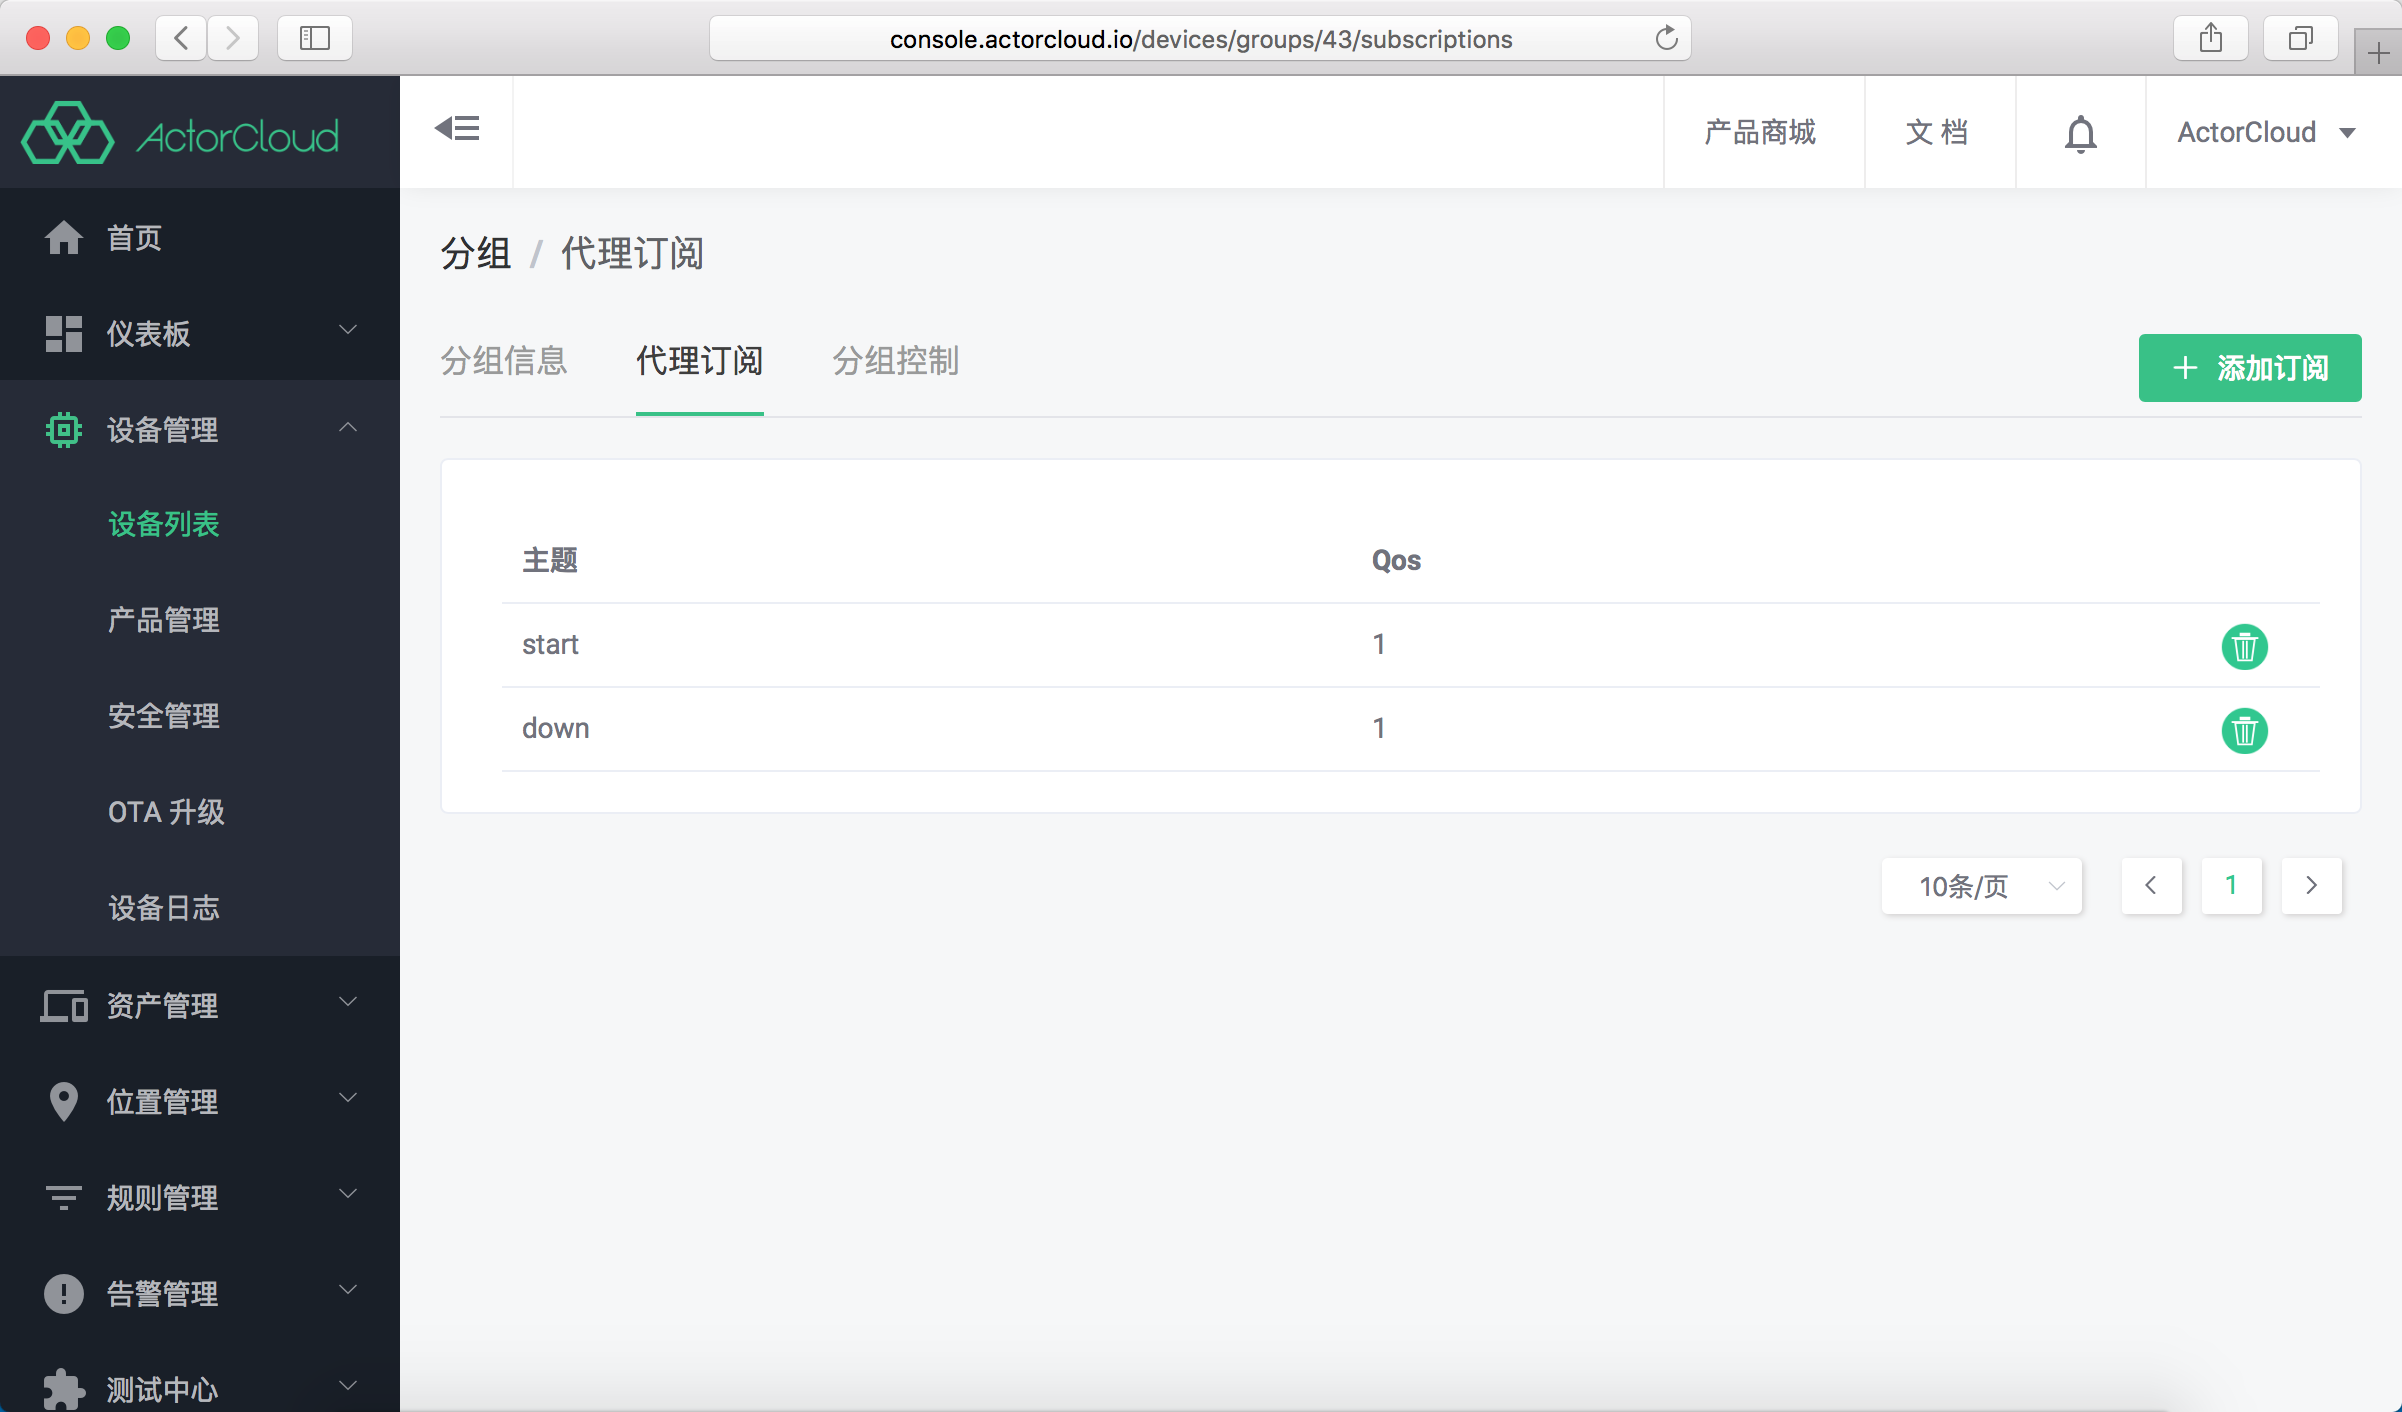
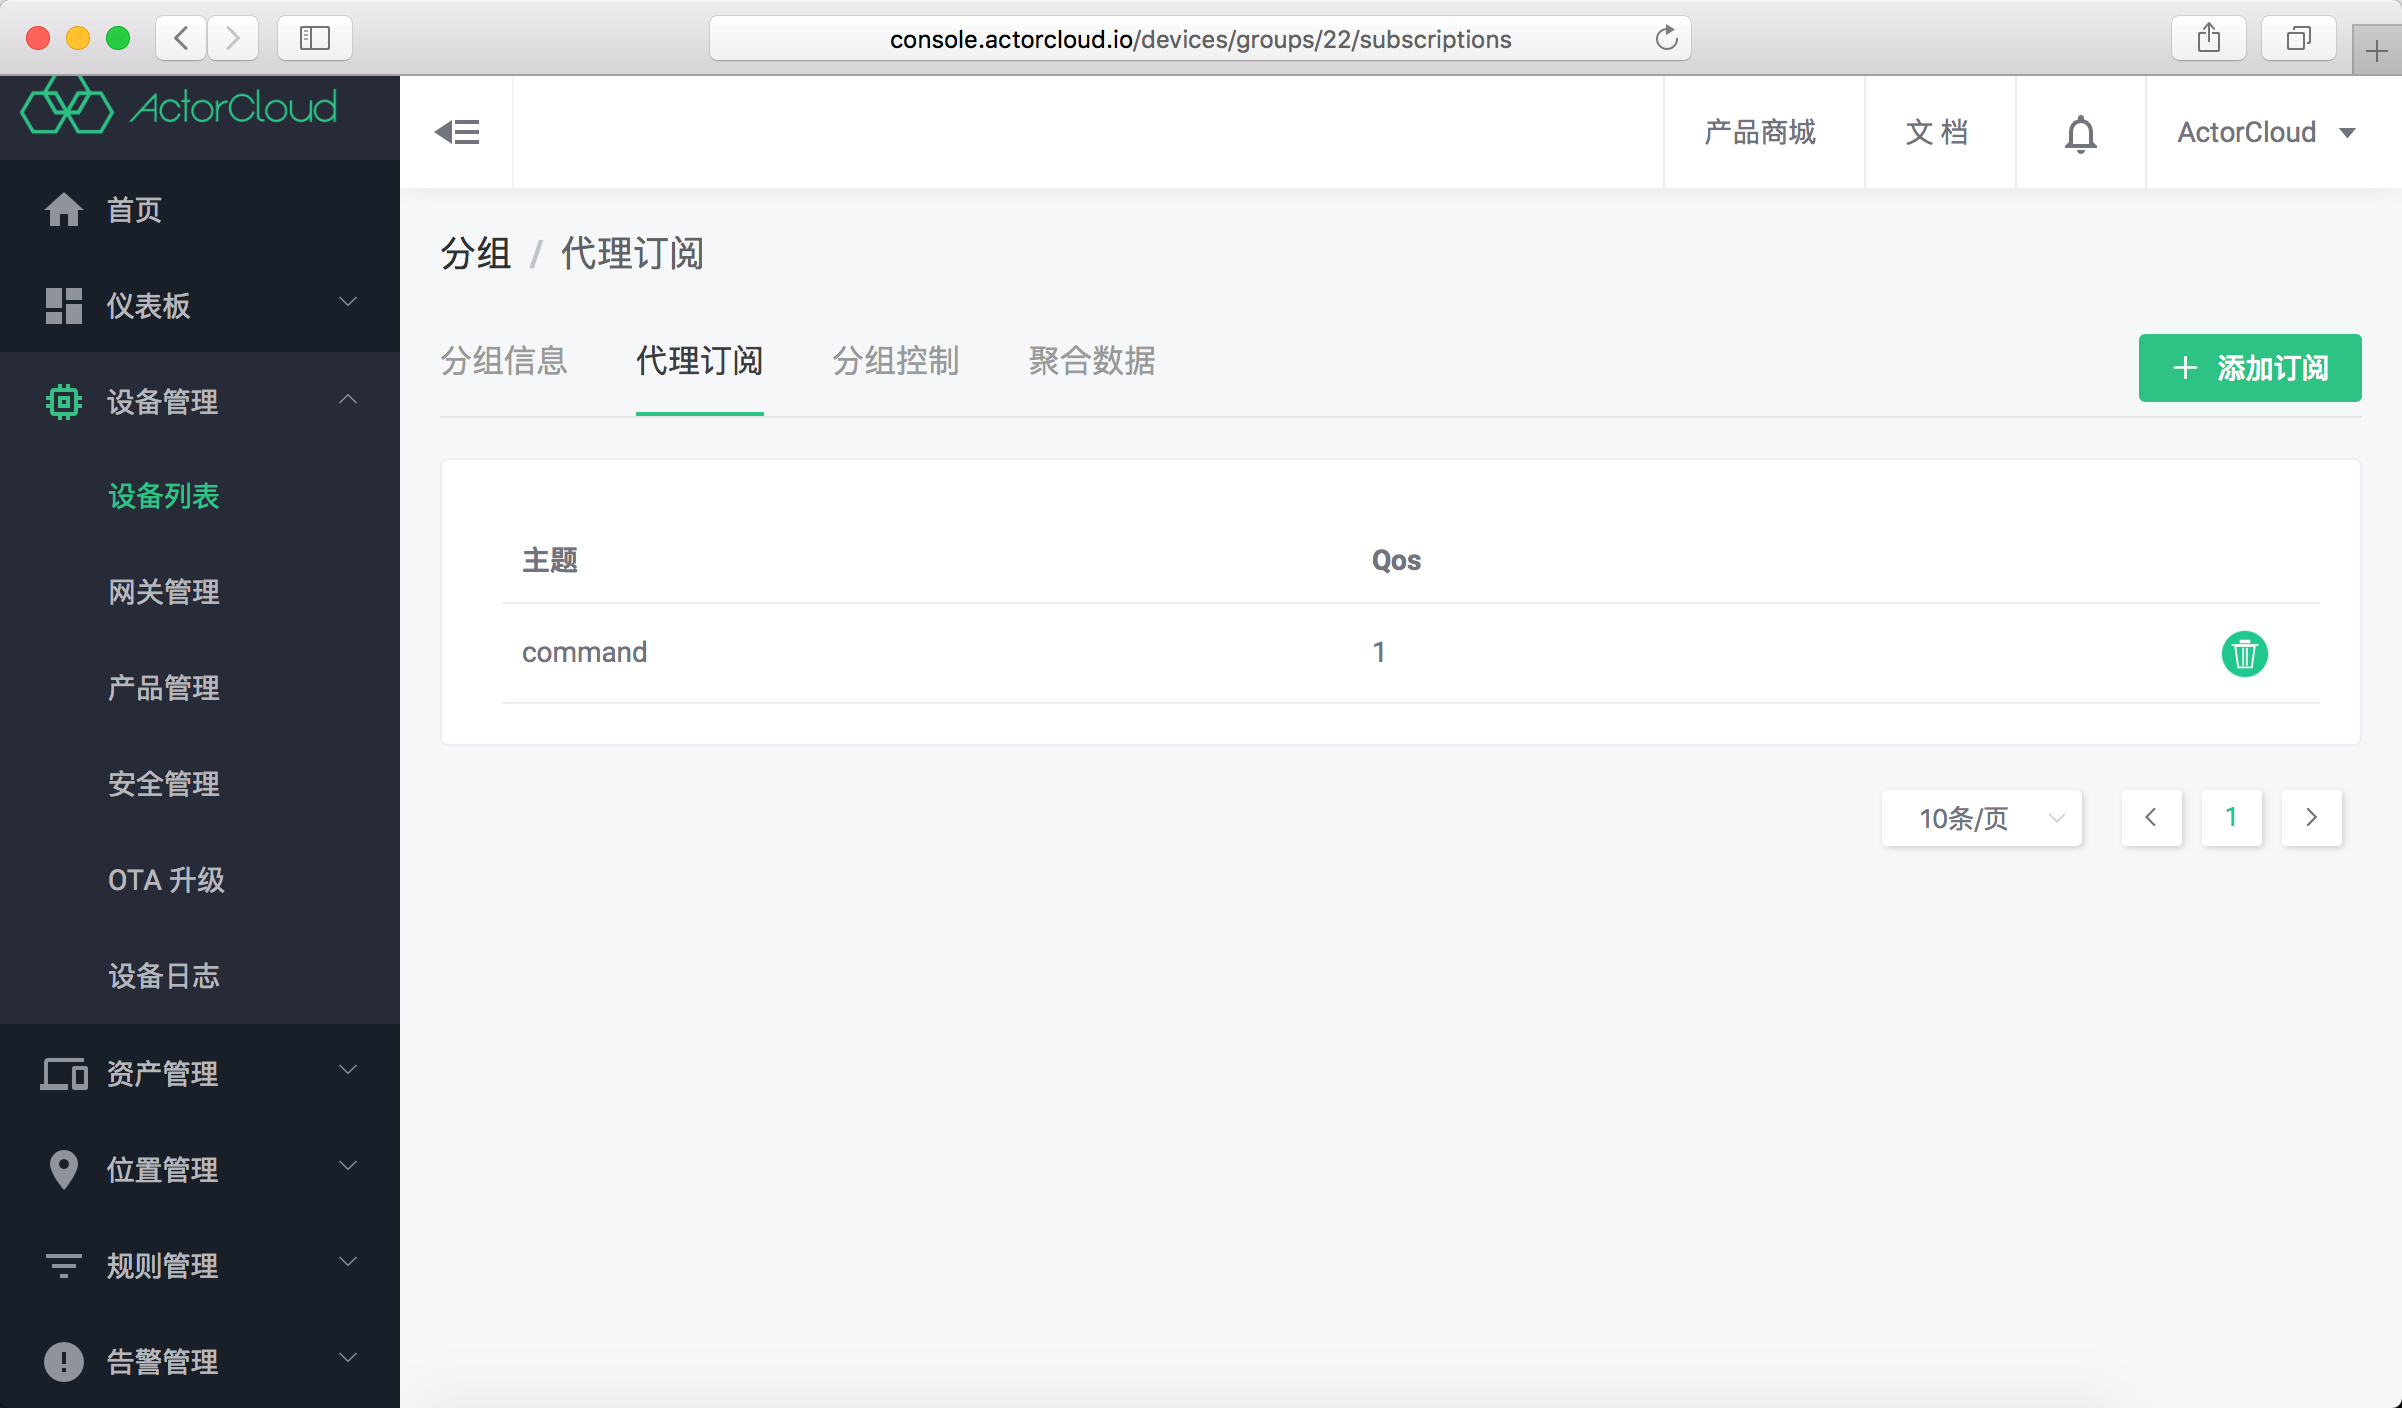
feat(docs): 调整文档适配 modbus 指标公式 业务规则

diff --git a/device/device.md b/device/device.md
@@ -1,6 +1,7 @@
 # 设备列表
 
-点击**设备**列表页设备名称，进入设备信息页。该页包括**设备信息**、**设备安全**、**设备事件**、**设备控制**、**原始数据**、**指标数据**六个页面，其功能与展示信息如下：
+点击**设备**列表页设备名称，进入设备信息页。该页包括
+**设备信息**、 **子设备**、 **设备安全**、 **设备事件**、 **原始数据**、 **指标数据**、 **设备轨迹**、 **设备控制**、 **控制台** 九个页面，其功能与展示信息如下：
 
 ### 设备信息
 
@@ -23,6 +24,10 @@
 
 ![](/assets/device_map_edit.png)
 
+
+### 子设备
+
+设备上联系统可以是另一个设备，此处显示设备下子设备列表。
 
 
 ### 设备安全
@@ -49,13 +54,27 @@
 
 
 
-
 ### 设备事件
 
 - 设备上行消息记录，即设备上报的消息，该页面无需刷新也可实时展示设备最新上报的消息。
 
 ![](/assets/upstream_device.png)
 
+
+### 原始数据
+
+- 最近24小时的功能点数据图表展示，仅限数值类型的功能点。该页面无需刷新也可实时更新设备数据图表。
+
+![](/assets/original_data.png)
+
+### 指标数据
+
+- 按不同的时间维度、聚合方式聚合后的功能点数据，详细设置参考 ***数据可视化*。
+
+
+### 设备轨迹
+
+- 当设备所属产品定义的功能点为位置功能点时，该功能点上报的位置轨迹信息将在地图上展示。
 
 
 ### 设备控制
@@ -84,21 +103,6 @@
 ![](/assets/device_control.png)
 
 
-### 原始数据
-
-- 最近24小时的功能点数据图表展示，仅限数值类型的功能点。该页面无需刷新也可实时更新设备数据图表。
-
-![](/assets/original_data.png)
-
-### 指标数据
-
-- 按不同的时间维度、聚合方式聚合后的功能点数据。
-
-
-### 设备轨迹
-
-- 当设备所属产品定义的功能点为位置功能点时，该功能点上报的位置轨迹信息将在地图上展示。
-
 
 ### 控制台
 
@@ -113,8 +117,6 @@
   - 开关：点击开关可以下发切换设备状态的指令；
   
   - 布尔：点击 `true` `false` 按钮可以将相应指令下发至设备。
-
-![](/product_develop/assets/device_console.png)
 
 
 ### 列表操作
@@ -163,10 +165,17 @@
 ![](/assets/group_subscript.png)
 
 
-### 分组下发
+### 分组控制
 
 - **分组控制**列表内可查看通过设备管理平台向组内设备下发的消息记录；
 
 - 点击**添加指令**可以通过设备管理平台向组内设备下发消息，支持自定义 JSON 格式消息与升级指令。
+
+![](/assets/group_publish.png)
+
+
+### 聚合数据
+
+聚合分组里设备指定功能点数值信息，该功能与设备中的指标数据相同，但层级是整个分组下的设备。
 
 ![](/assets/group_publish.png)

diff --git a/device/product.md b/device/product.md
@@ -10,8 +10,6 @@
 
 ![](/assets/product_list.png)
 
-![](/assets/product_create.png)
-
 
 > 产品详情页中有不同的 TAB 页以定义不同的功能
 
@@ -124,6 +122,8 @@
 
 指标管理具有统计功能，用于聚合统计一个周期内数值类型的功能点、产品属性等信息数据并图表展示。
 
+指标使用统计方法处理数据，对于特定的功能点可以统计其一段时期内的最大值、最小值、平均值、累计值数据，如果数据需要转换，如容器底面积固定时，将 `页面高度` 转换为 `液体容积`, 可以使用公式指标。
+
 指标管理统计的数据将在 **设备详情** -> **指标数据** 中展示。
 
 - 图表类型：需要展现的图表类型；
@@ -135,16 +135,16 @@
 ![](/assets/metrics.png)
 
 
+
+
+### 聚合数据
+
+图表展示不同事假维度下当前产品中指标数据的聚合值。
+
+
 ### 代理订阅
 
 设备连接后将自动订阅的主题列表。
-
-
-### 资源定义
-
-将设备上报某些属性、功能点关联到设备资源。
-
-目前支持序列号、软件版本、硬件版本、制造商四个设备资源定义，即设备上报了指定功能点后，该数值会被同步更新到设备属性。
 
 
 ### 应用模板
@@ -171,4 +171,13 @@
 
   
   > 每个卡片可以拖拽改变位置、点击右下角拖放改变尺寸。设备详情->控制台 页面将会按照该页面设置的模板与顺序展现。
-  
+
+
+
+### 资源定义
+
+将设备上报某些属性、功能点关联到设备资源。
+
+目前支持序列号、软件版本、硬件版本、制造商四个设备资源定义，即设备上报了指定功能点后，该数值会被同步更新到设备属性。
+
+

diff --git a/device/gateway.md b/device/gateway.md
@@ -7,3 +7,32 @@
 为方便管理统计，如设备上联系统为网关，需在设备新建时创建并选择相应网关。
 
 ![](/assets/gataway.png)
+
+
+### 网关信息
+
+显示基本的网关信息，MQTT 透传协议的网关可通过网关编号，网关用户名，网关密钥连接至 **ActorCloud**。
+
+
+#### 网关通道 (适配 Modbus 网关)
+
+- 1.Modbus 网关详情页点开 网关通道 后面的 点击查看 按钮，进入网关通道配置；
+
+- 2.点开 添加通道，先选择通道类型。通道类型可选择 COM、TCP，驱动类型可选择 Modbus TRU (COM类型)、Modbus TCP (TCP类型)；
+
+- 3.创建一个 COM 类型的通道。其中 Baud 表示串口波特率，Data 表示数据位，Stop 表示停止位，Parity 表示奇偶校验位。注意：一个网关只能创建一个 COM 通道，并且不可与 TCP 通道并存；
+
+- 4. 创建一个 TCP 类型的通道(需把前面创建 COM 通道删除)，注意：一个网关最多可创建 9 个 TCP 通道，并且不可与 COM 通道并存。
+
+![](/assets/gateway_way.png)
+
+
+### 网关事件
+
+实时显示该网关上报的消息，同设备事件功能类似。
+
+
+### 网关控制
+
+将配置信息下发更新至网关。
+

diff --git a/rule_engine/business_rules.md b/rule_engine/business_rules.md
@@ -9,7 +9,11 @@
 
 除必要的名称与备注信息外，业务规则还应当包含以下几个部分：
 
-- 关联产品：该条业务规则应用的产品；
+- 关联产品：该条业务规则应用的产品，与关联分组互斥；
+
+- 关联分组：该条业务规则应用的分组，与关联产品互斥；
+
+- 关联设备：可选选项，标识仅应用针对某个具体设备；
 
 - 关联数据流：业务规则将应用于该数据流，若是规则条件成立，将触发相应动作；
 
@@ -22,6 +26,11 @@
   - 满足频率时触发：当数据流多长时间内满足条件多少次时触发动作；
 
   - 条件持久存在时触发：当数据流满足条件持续若干分钟/小时后触发动作。
+
+- 条件类型：
+  - 功能点：比较上报数据流中的某个功能点（特定字段）；
+  - 公式指标：比较上报数据流经过公式指标转换后的值字段值；
+  - 未上报数据：消息内容为空时（空对象、空数组）时直接触发。
 
 - 条件：对数据流里的数据校验规则，一个条件包含以下要素：
   - 功能点：该条件校验的功能点，ActorCloud 将使用该功能点的数值进行条件匹配；

diff --git a/SUMMARY.md b/SUMMARY.md
@@ -26,12 +26,15 @@
 * [网关管理](device/gateway.md)
 
 * [产品管理](device/product.md)
+  * [属性列表](device/product.md#属性列表)
   * [功能点](device/product.md#功能点)
   * [数据流](device/product.md#数据流)
+  * [设备列表](device/product.md#设备列表)
   * [指标管理](device/product.md#指标管理)
+  * [聚合数据](device/product.md#聚合数据)
   * [代理订阅](device/product.md#代理订阅)
-  * [资源定义](device/product.md#资源定义)
   * [应用模板](device/product.md#应用模板)
+  * [资源定义](device/product.md#资源定义)
 
 * [安全管理](device/security.md)
 * [OTA 升级](device/OTA.md)
